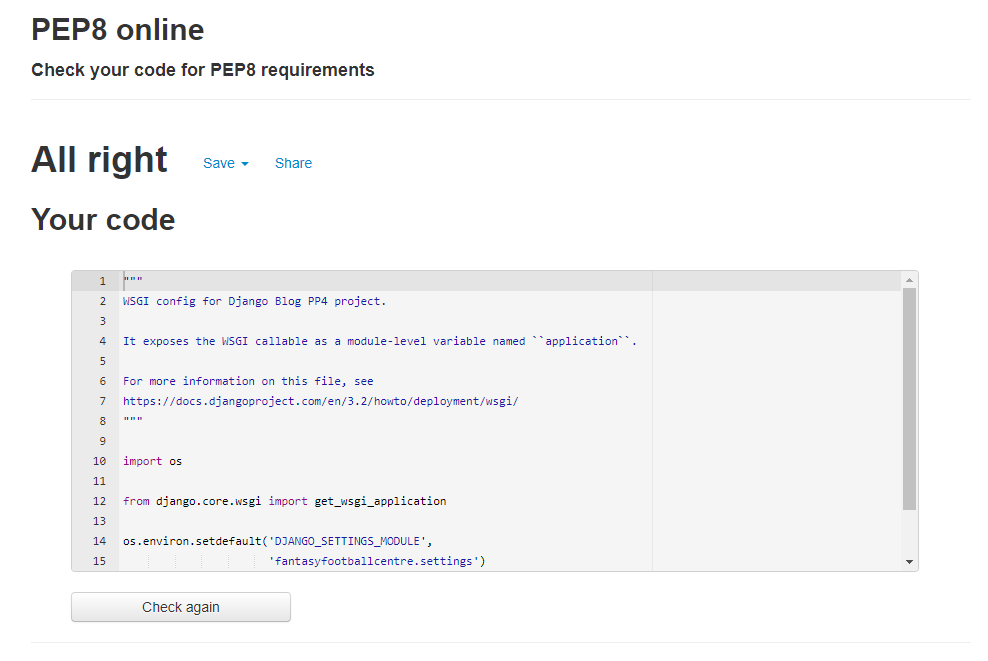
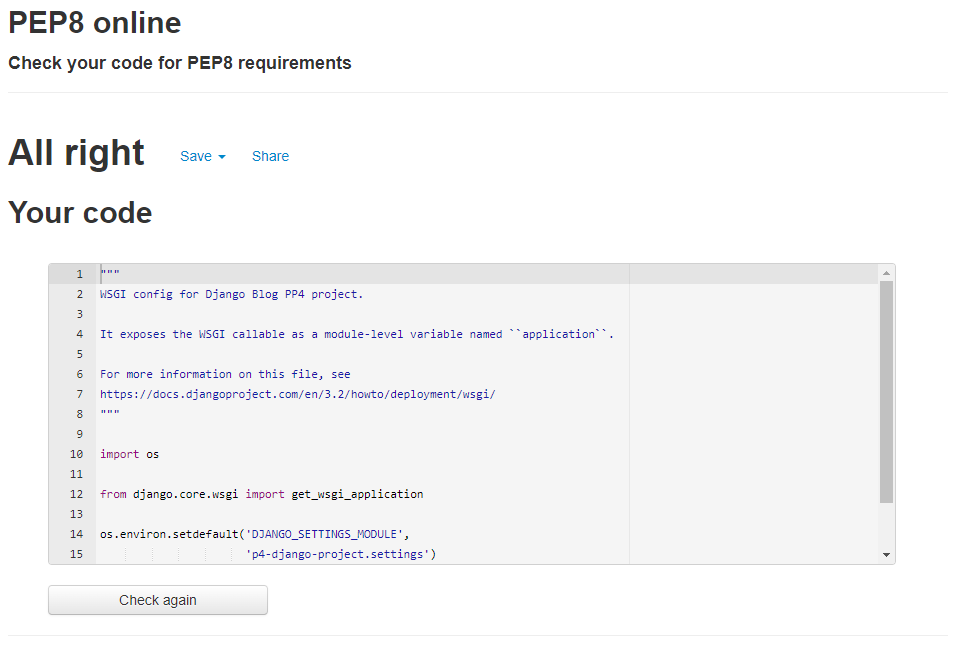
Update latest PEP8 validation screenshots

diff --git a/static/css/style.css b/static/css/style.css
@@ -186,5 +186,4 @@ article {
 
 .thin {
     background-color:#146b43d8;
-    /* height:3px!important; */
 }

diff --git a/poll/tests.py b/poll/tests.py
@@ -43,6 +43,8 @@ class QuestionModelTests(TestCase):
 
 # Credits: Automated testing sourced from official Django
 # Documentation tutorials - please see readme credits section
+
+
 def create_question(question_text, days):
     """
     Create a question with the given `question_text` and published the
@@ -62,7 +64,7 @@ class QuestionIndexViewTests(TestCase):
         test_user = User.objects.create_user(
             username='testuser', password='testpw'
             )
-        self.client.login(username='testuser', password='testpw')   
+        self.client.login(username='testuser', password='testpw')
         response = self.client.get(reverse('poll:index'))
         self.assertEqual(response.status_code, 200)
         self.assertContains(response, "No polls are available.")
@@ -146,7 +148,7 @@ class QuestionDetailViewTests(TestCase):
         test_user = User.objects.create_user(
             username='testuser', password='testpw'
             )
-        self.client.login(username='testuser', password='testpw')   
+        self.client.login(username='testuser', password='testpw')
         response = self.client.get(reverse('poll:index'))
         future_question = create_question(question_text='Future question.',
                                           days=5)
@@ -163,7 +165,7 @@ class QuestionDetailViewTests(TestCase):
         test_user = User.objects.create_user(
             username='testuser', password='testpw'
             )
-        self.client.login(username='testuser', password='testpw')   
+        self.client.login(username='testuser', password='testpw')
         response = self.client.get(reverse('poll:index'))
         past_question = create_question(question_text='Past Question.',
                                         days=-5)

diff --git a/website/views.py b/website/views.py
@@ -16,17 +16,21 @@ def landing_page(request):
 # Added annotation to queryset to enable comment totals on index.html template
 class ArticleList(generic.ListView):
     model = Article
-    queryset = Article.objects.filter(status=1).order_by('-created_on').annotate(comment_count=Count('comments__article'))
+    queryset = Article.objects.filter(status=1).order_by(
+        '-created_on').annotate(comment_count=Count('comments__article'))
     template_name = 'index.html'
     paginate_by = 6
 
 # Credits: Website Views adapted from Code Insitute Django Blog lesson
+
+
 class ArticleDetail(View):
 
     def get(self, request, slug, *args, **kwargs):
         queryset = Article.objects.filter(status=1)
         article = get_object_or_404(queryset, slug=slug)
-        comments = article.comments.filter(approved=True).order_by('created_on')
+        comments = article.comments.filter(
+            approved=True).order_by('created_on')
         liked = False
         if article.likes.filter(id=self.request.user.id).exists():
             liked = True
@@ -46,7 +50,8 @@ class ArticleDetail(View):
     def post(self, request, slug, *args, **kwargs):
         queryset = Article.objects.filter(status=1)
         article = get_object_or_404(queryset, slug=slug)
-        comments = article.comments.filter(approved=True).order_by('created_on')
+        comments = article.comments.filter(
+            approved=True).order_by('created_on')
         liked = False
         if article.likes.filter(id=self.request.user.id).exists():
             liked = True

diff --git a/website/tests.py b/website/tests.py
@@ -16,24 +16,3 @@ class TestViews(TestCase):
         response = self.client.get('/article-list/')
         self.assertEqual(response.status_code, 200)
         self.assertTemplateUsed(response, 'index.html')
-
-    # def test_view_post_detail(self):
-    #     test_user = User.objects.create_user(
-    #         username='testuser', password='testpw'
-    #         )
-    #     self.client.login(username='testuser', password='testpw')
-    #     article = Post.objects.create(
-    #         title='test article', 
-    #         slug='test-article',
-    #         author=test_user
-    #         content='test content',                        
-    #         created_on=''
-    #     )
-    #     self.assertEqual(featured_image, 'placeholder') 
-
-
-# class TestModels(TestCase):
-
-#     def test_approved_defaults_to_false(self):
-#         comment = Comment.objects.create(name="Test Comment")
-#         self.assertFalse(comment.approved)

diff --git a/poll/views.py b/poll/views.py
@@ -9,9 +9,10 @@ from django.contrib.auth.mixins import LoginRequiredMixin
 from .models import Question, Choice
 
 # Create your views here.
-# Credits - please note this code is sourced from the 
+# Credits - please note this code is sourced from the
 # Official Django documentation on poll tutorials and
 # is fully acknowledged & accredited in readme
+
 
 class IndexView(LoginRequiredMixin, generic.ListView):
     template_name = 'poll/index.html'

diff --git a/website/urls.py b/website/urls.py
@@ -5,5 +5,6 @@ urlpatterns = [
     path("", views.landing_page, name="home"),
     path("article-list/", views.ArticleList.as_view(), name="article_list"),
     path('<slug:slug>/', views.ArticleDetail.as_view(), name='article_detail'),
-    path('like/<slug:slug>/', views.ArticleLike.as_view(), name='article_like'),
+    path('like/<slug:slug>/',
+         views.ArticleLike.as_view(), name='article_like'),
 ]

diff --git a/website/models.py b/website/models.py
@@ -32,7 +32,7 @@ class Article(models.Model):
 
 class Comment(models.Model):
     article = models.ForeignKey(Article, on_delete=models.CASCADE,
-                             related_name="comments")
+                                related_name="comments")
     name = models.CharField(max_length=80)
     email = models.EmailField()
     body = models.TextField()

diff --git a/poll/models.py b/poll/models.py
@@ -4,7 +4,7 @@ from django.db import models
 from django.utils import timezone
 
 
-# Credits - this code is sourced from the official Django documentation 
+# Credits - this code is sourced from the official Django documentation
 # tutorials and is fully accredited in readme credits
 # Create your models here.
 class Question(models.Model):

diff --git a/poll/urls.py b/poll/urls.py
@@ -3,7 +3,7 @@ from django.urls import path
 from . import views
 
 
-# Credits - please note this code is sourced from the 
+# Credits - please note this code is sourced from the
 # Official Django documentation on poll tutorials and
 # is fully acknowledged & accredited in readme
 app_name = 'poll'

diff --git a/TESTING.md b/TESTING.md
@@ -233,9 +233,13 @@ All HTML pages have been passed through the official W3C validator without any i
 
 ![HTML Validation](readme/html-validation-logout-page.png)
 
-### (ii) CSS Validation [(Jigsaw)](https://jigsaw.w3.org/css-validator/validator)
+### (ii) CSS Validation [(Jigsaw)](https://jigsaw.w3.org/css-validator/)
+
+The site's CSS code located in `style.css` has been successfully validated using the Jigsaw CSS validation service, with no errors found, and only two warnings which do not affect the site content and can be safely ignored per the screenshot below:
 
 ![CSS](readme/validation-css.png) 
+
+The site's Javascript code located in `base.js` has been successfully validated using the JSHint validation service, with no errors found, and one warning regarding an undefined variabe which does not affect the site content and is required in order to enable the messaging functionality to operate:
 
 ### (iii) Javascript Validation [(Jshint)](https://jshint.com/)
 
@@ -245,7 +249,7 @@ All HTML pages have been passed through the official W3C validator without any i
 
 This section will summarise the Python validation activities carried out across the various python files consisting the structure of the application, using the [PEP8 Online Check](http://pep8online.com/) utility:
 
-#### **(a) Main Project Directory:** [PP4-DJANGO-BLOG/fantasyfootballcentre](fantasyfootballcentre):
+#### **(a) Main Project Directory:** [PP4-DJANGO-BLOG/p4-django-project](p4-django-project):
 
 No. |Python File | PEP8 Status | Screenshot 
 ------------- |------------- | ------------- | ------------ 
@@ -277,4 +281,4 @@ No. |Python File | PEP8 Status | Screenshot
 6 | [urls.py](website/urls.py) | No issues | [link](readme/pep8/pep8-website-urls.png)
 7 | [views.py](website/views.py) | No issues | [link](readme/pep8/pep8-website-views.png)
 
-^Note - Lines 167 and 132 in settings.py are generating an `E501 code` for line length (exceeding 79 characters by one character & three characters respectively) - this is known and understood, and per [this](https://peps.python.org/pep-0008/) section of the [PEP8](https://www.python.org/) guidelines I have made a judgement call that applying the guideline in these two specific instance `would potentially make the code less readable, even for someone who is used to reading code that follows this PEP.`
+^Note - Lines 167 and 132 in settings.py are generating an `E501 code` for line length (exceeding 79 characters by one character & three characters respectively) - this is known and understood as Django has developed the code in this fashion, and per [this](https://peps.python.org/pep-0008/) section of the [PEP8](https://www.python.org/) guidelines I have made a judgement call that applying the guideline in these two specific instance `would potentially make the code less readable, even for someone who is used to reading code that follows this PEP.`
